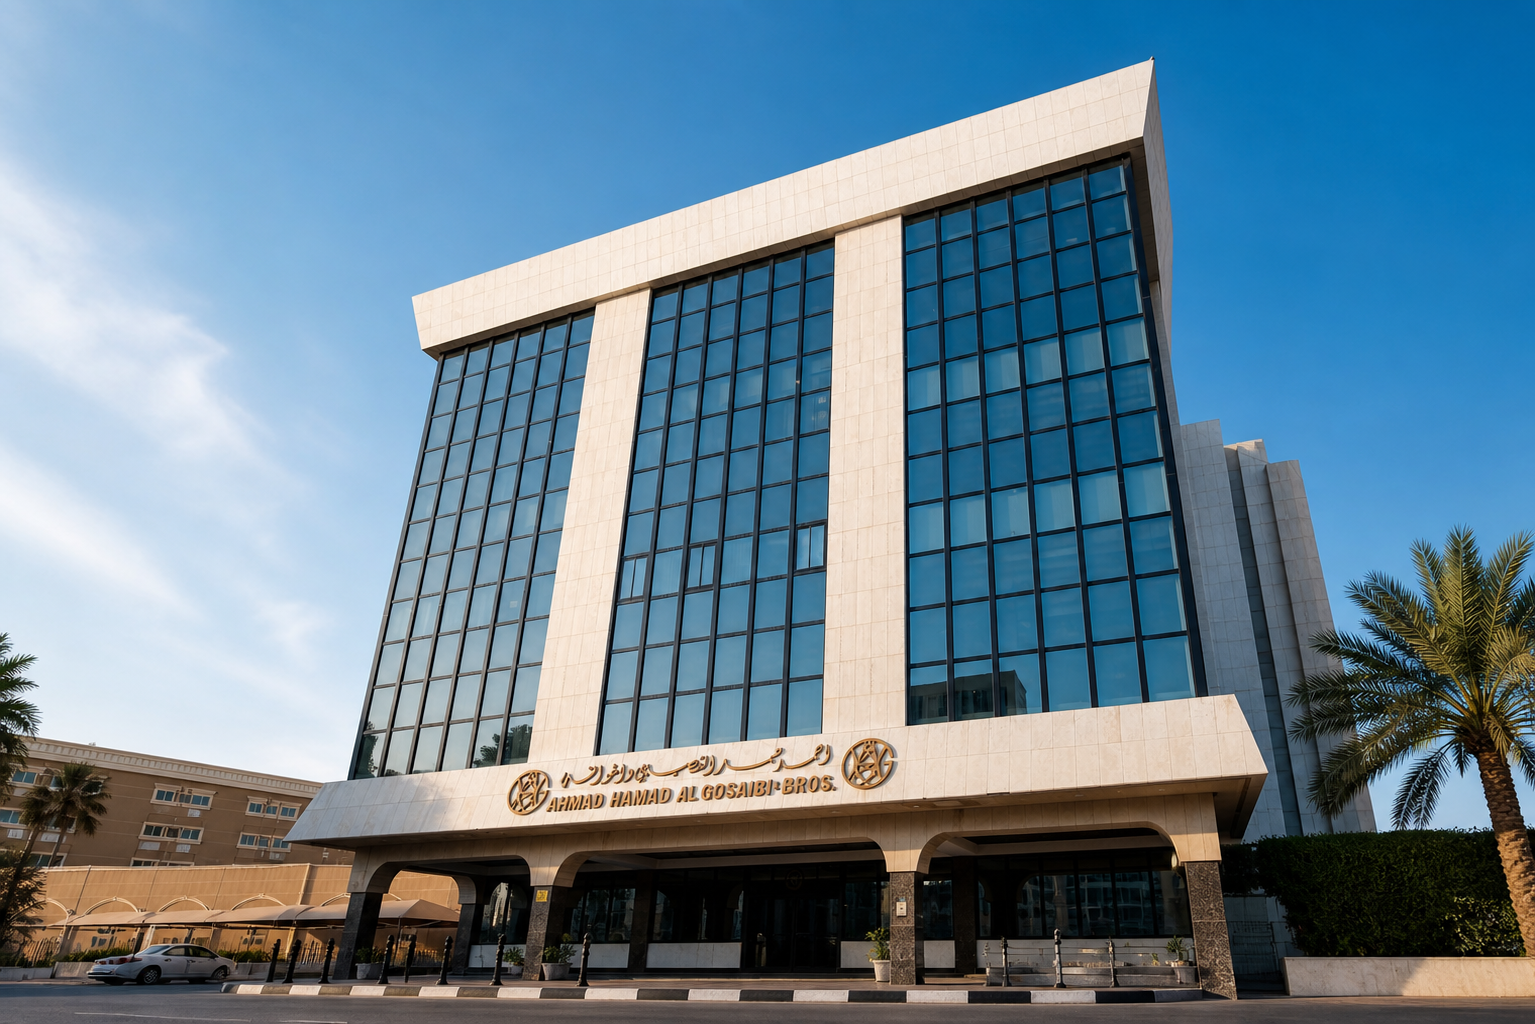
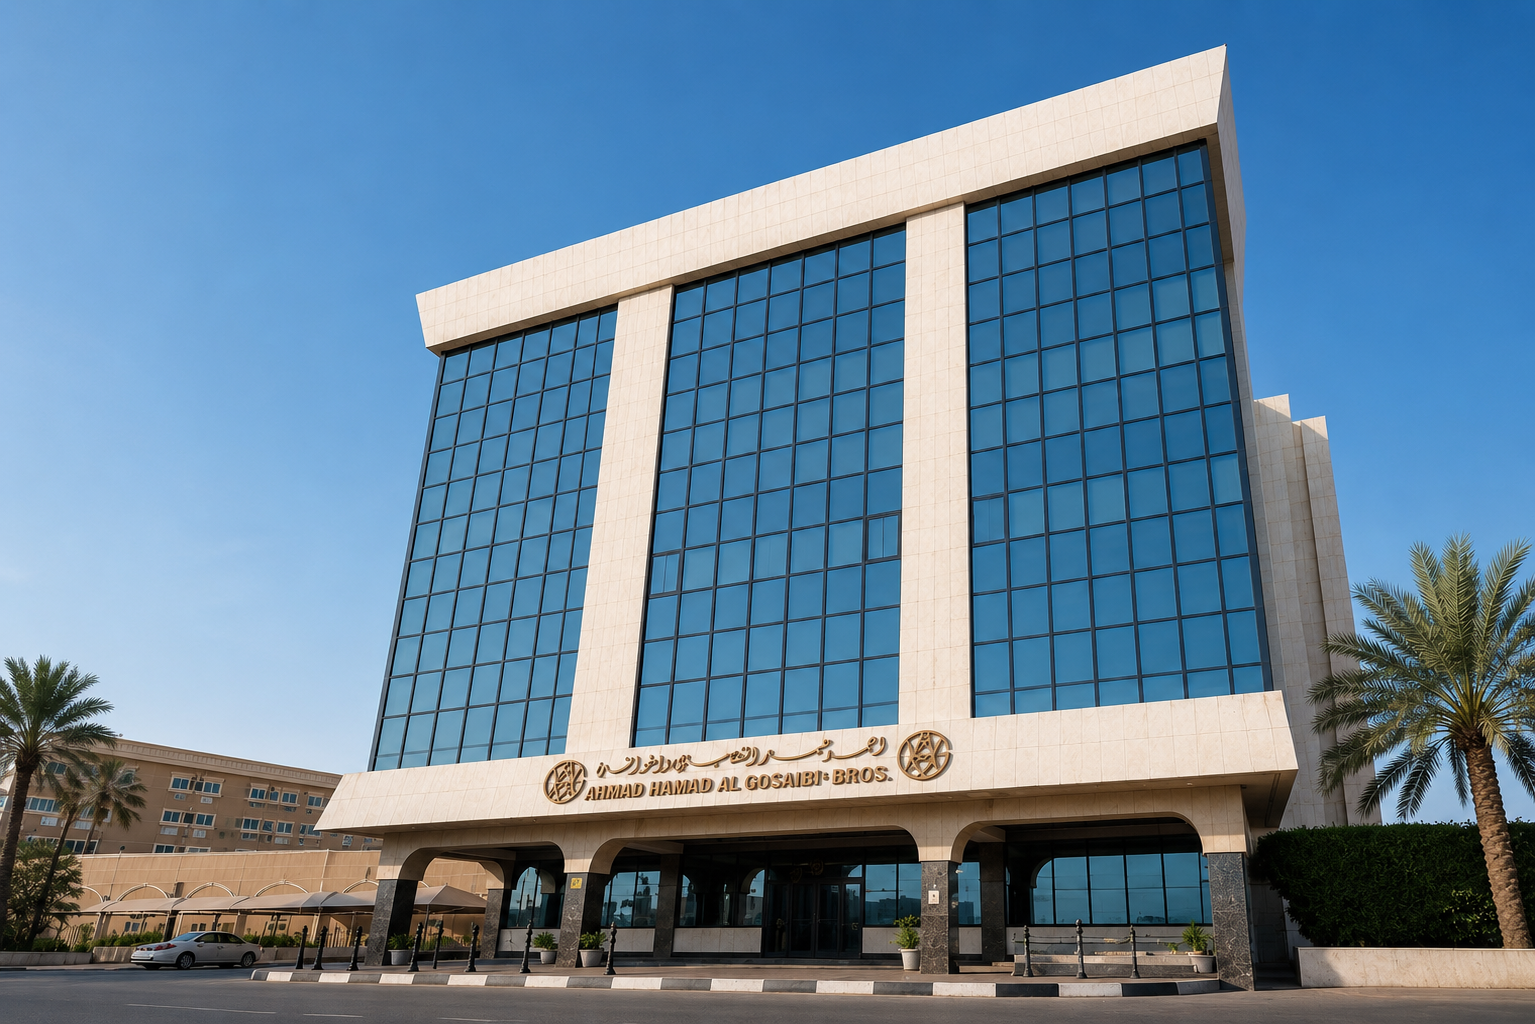
Update history images and refreshed history pages

diff --git a/ar/history.html b/ar/history.html
@@ -160,7 +160,7 @@
     <main>
       
 <section class="page-hero page-hero--history page-hero--animate">
-  <img src="../assets/images/history-hero.jpeg" alt="حضور تجاري وصناعي تاريخي لمجموعة القصيبي" class="hero-bg-img" />
+  <img src="../assets/images/history-hero.PNG" alt="حضور تجاري وصناعي تاريخي لمجموعة القصيبي" class="hero-bg-img" />
   <div class="hero-overlay"></div>
   <div class="hero-container">
     <div class="hero-copy">

diff --git a/history.html b/history.html
@@ -160,7 +160,7 @@
     <main>
       
 <section class="page-hero page-hero--history page-hero--animate">
-  <img src="assets/images/history-hero.jpeg" alt="Historic Algosaibi commercial and industrial presence" class="hero-bg-img" />
+  <img src="assets/images/history-hero.PNG" alt="Historic Algosaibi commercial and industrial presence" class="hero-bg-img" />
   <div class="hero-overlay"></div>
   <div class="hero-container">
     <div class="hero-copy">
